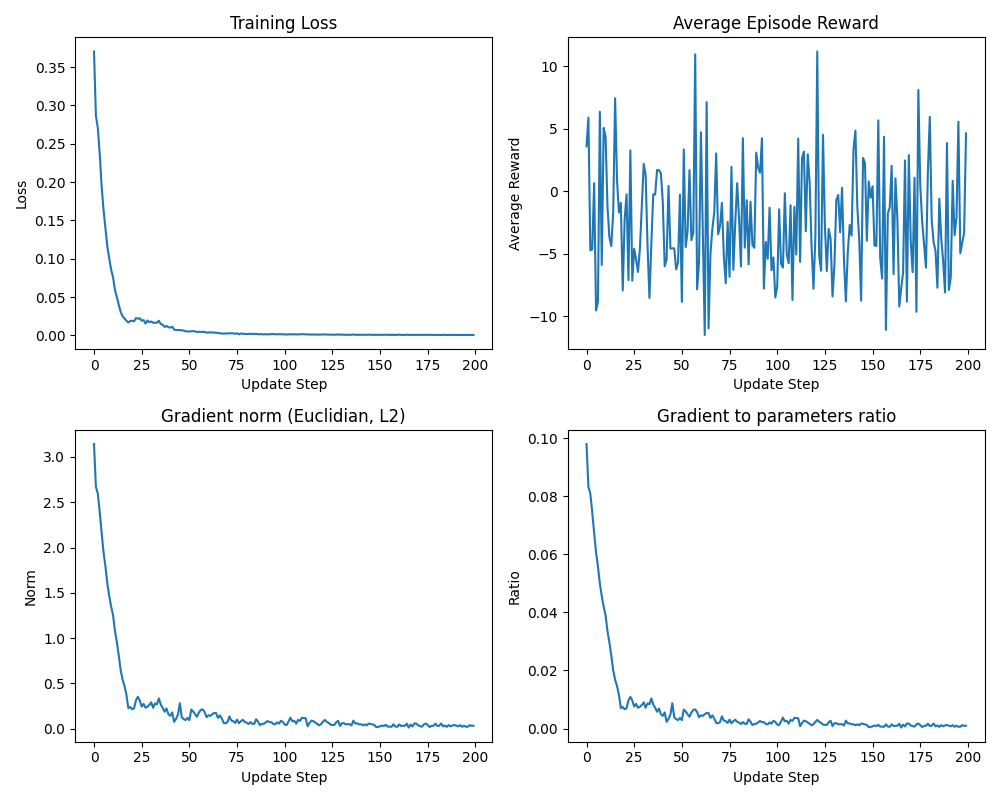
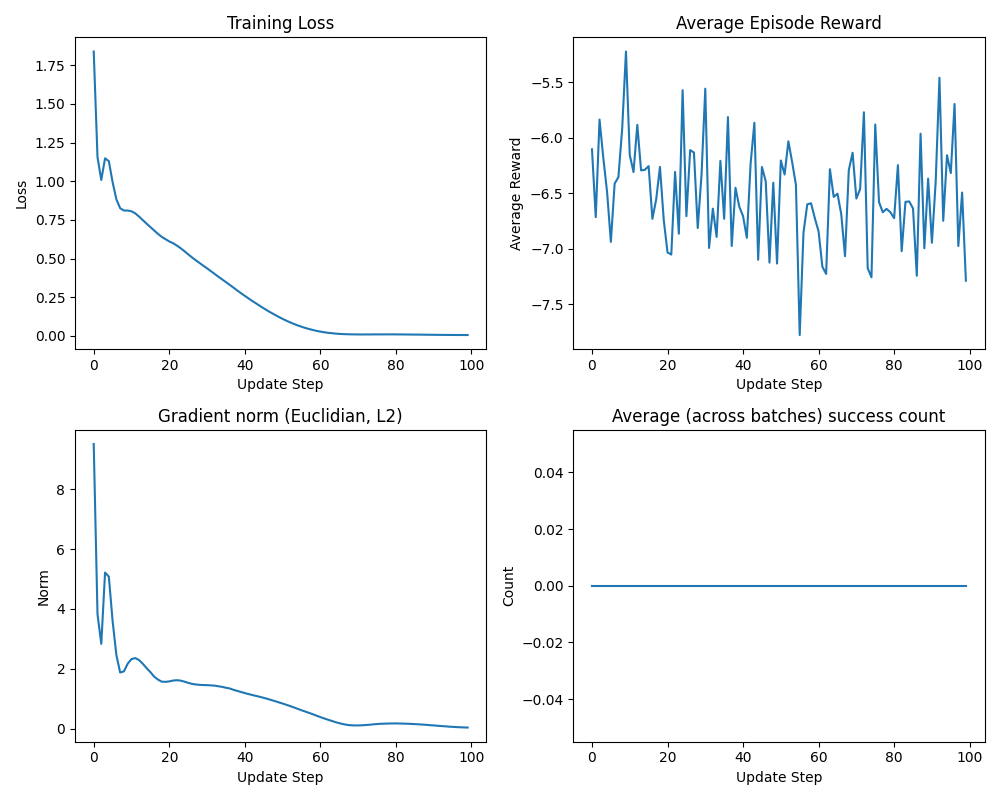
debugging start

diff --git a/robot.py b/robot.py
@@ -387,6 +387,13 @@ def get_goal(rsd: RobotSharedData, rng):
     }
     return goals
 
+def debug(pdata, name):
+    def func(state):
+        jax.debug.print("{} = {}", name, pdata[name])
+        return state, pdata
+    return StateMonad(func)
+
+
 def obs_pipeline(rsd:RobotSharedData, env: StateMonad):
     return (
         env.bind(
@@ -474,6 +481,8 @@ def obs_pipeline(rsd:RobotSharedData, env: StateMonad):
         .bind(
             lambda pdata: update_obs_history(pdata, rsd.enviroment_config.obs_noise)
         )
+        .bind(lambda pdata: debug(pdata, "position_error"))
+        .bind(lambda pdata: debug(pdata, "orientation_error"))
     )
 
 
@@ -534,7 +543,7 @@ def reward_pipeline(rsd: RobotSharedData, env: StateMonad):
                 **pdata,
                 # checa se houve sucesso (atingiu o alvo)
                 "success": (pdata["position_error"] < 0.0001)
-                & (pdata["orientation_error"] < 0.0001),
+                & (pdata["orientation_error"] < 0.01),
                 # checa se atingiu o limite das juntas
                 "failure": jnp.any(pdata["joint_angles"] < rsd.lowers)
                 | jnp.any(pdata["joint_angles"] > rsd.uppers),
@@ -565,6 +574,7 @@ def reward_pipeline(rsd: RobotSharedData, env: StateMonad):
                 "reward": jnp.clip(pdata["reward"], -10000.0, 10000.0),
             }
         )
+        .bind(lambda pdata: debug(pdata, "reward"))
     )
 
 
@@ -583,6 +593,10 @@ def create_step(rsd: RobotSharedData, actor_params):
             output = rsd.actor.apply(actor_params, last_obs)
             output = cast(jax.Array, output)
             action_value, logprob = cont_sample_beta(output, rng1)
+
+            ogc = state["goal"]["goal_orientation_coordinates"]
+            jax.debug.print("goal orientation coord = {}", ogc)
+            jax.debug.print("action_value = {}", action_value)
             
             new_state = {**state, "rng": rng2, "action": action_value}
             return new_state, {"action": action_value, "logprob": logprob}
@@ -597,6 +611,7 @@ def create_step(rsd: RobotSharedData, actor_params):
             current_pos = qpos(rsd, state["mjx_data"])
             motor_targets = current_pos + action_value_action * rsd.enviroment_config.action_scale
 
+            jax.debug.print("motor_targets = {}", motor_targets)
             # para evitar que os limites de junta do robô sejam desrespeitados
             return state, {**pdata, "motor_targets":jnp.clip(motor_targets, rsd.lowers, rsd.uppers)}
         return StateMonad(fn)

diff --git a/main.py b/main.py
@@ -133,9 +133,9 @@ print(f"jax_enable_x64: {jax.config.read('jax_enable_x64')}")
 #env_states = {"rng":rng, "step":0, "goal":None, "obs_history":}
 #######################################################################################
 # --- Hyperparameters ---
-NUM_EPISODES = 200#1000
-NUM_ENVS = 1024
-STEPS_PER_EPISODE = 256
+NUM_EPISODES = 4#1000
+NUM_ENVS = 3
+STEPS_PER_EPISODE = 10
 LEARNING_RATE = 10e-4
 GAMMA = 0.99
 GAE_LAMBDA = 0.95
@@ -190,7 +190,7 @@ optim_state = optimizer.init(params)
 
 
 # --- Executa o treinamento ---
-#jax.config.update("jax_disable_jit", True)
+jax.config.update("jax_disable_jit", True)
 
 print("JIT compiling and starting training...")
 (final_params, final_optim_state, final_rng), metrics = ppo_train(
@@ -220,7 +220,10 @@ print(f"min avg reward: {jnp.min(avg_episode_rewards)}")
 print(f"max avg reward: {jnp.max(avg_episode_rewards)}")
 
 grad_norm = metrics["grad_norm"]
-grad_to_param_ratio = metrics["grad_to_param_ratio"]
+avg_success_count = metrics["success_count"]
+print(f"success_count shape: {avg_success_count.shape}")
+
+print(f"last ptr: {metrics["last_ptr"]}")
 
 
 fig, ((ax1, ax2), (ax3, ax4)) = plt.subplots(2, 2, figsize=(10, 8), tight_layout=True)
@@ -239,10 +242,10 @@ ax3.set_title("Gradient norm (Euclidian, L2)")
 ax3.set_xlabel("Update Step")
 ax3.set_ylabel("Norm")
 
-ax4.plot(grad_to_param_ratio)
-ax4.set_title("Gradient to parameters ratio")
+ax4.plot(avg_success_count)
+ax4.set_title("Average (across batches) success count")
 ax4.set_xlabel("Update Step")
-ax4.set_ylabel("Ratio")
+ax4.set_ylabel("Count")
 
 
 plt.savefig(f"training_plots_{activation_str}.png")
@@ -255,7 +258,7 @@ df = pd.DataFrame({
     "loss": metrics["loss"],
     "avg_reward": avg_episode_rewards,
     "grad_norm": grad_norm,
-    "grad_to_param_ratio": grad_to_param_ratio
+    "success_count": avg_success_count
 })
 df.to_csv(f"l1_{activation_str}.csv", index=False)
 print("Done!")

diff --git a/new_ppo.py b/new_ppo.py
@@ -408,6 +408,8 @@ def ppo_train(
 
         return new_carry, {
             "loss": loss_val,
+            "last_ptr": buffer.ptr,
+            "success_count": jnp.mean(final_state["success_count"]),
             "avg_reward": jnp.mean(final_buffer.reward_buffer, axis=0),
             **grad_info,
         }
